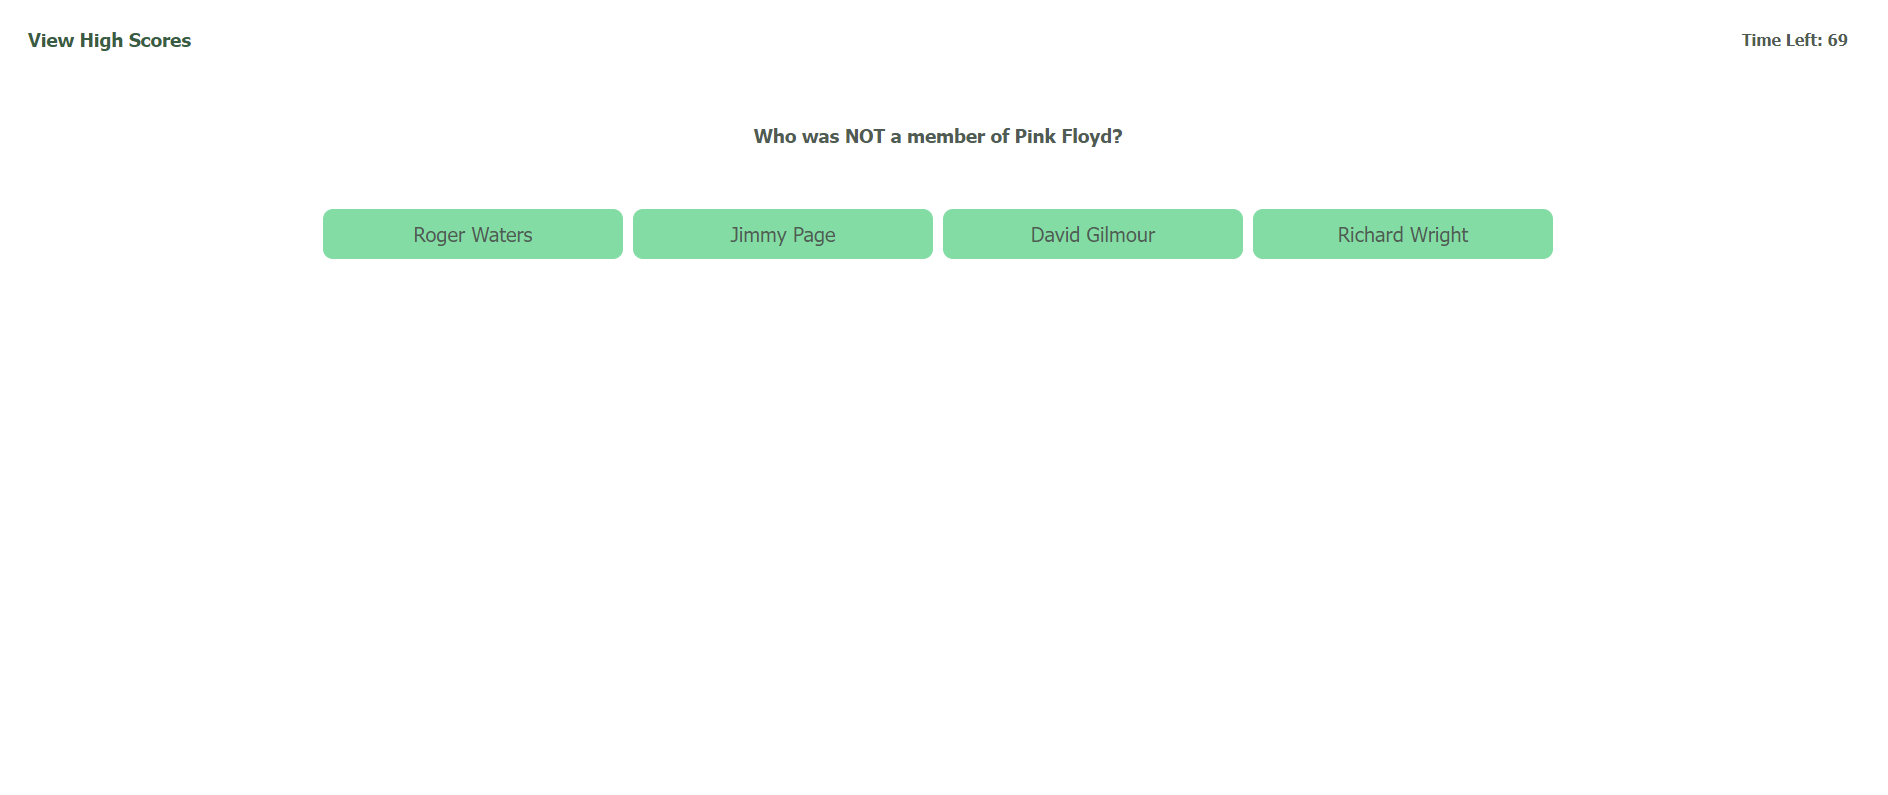
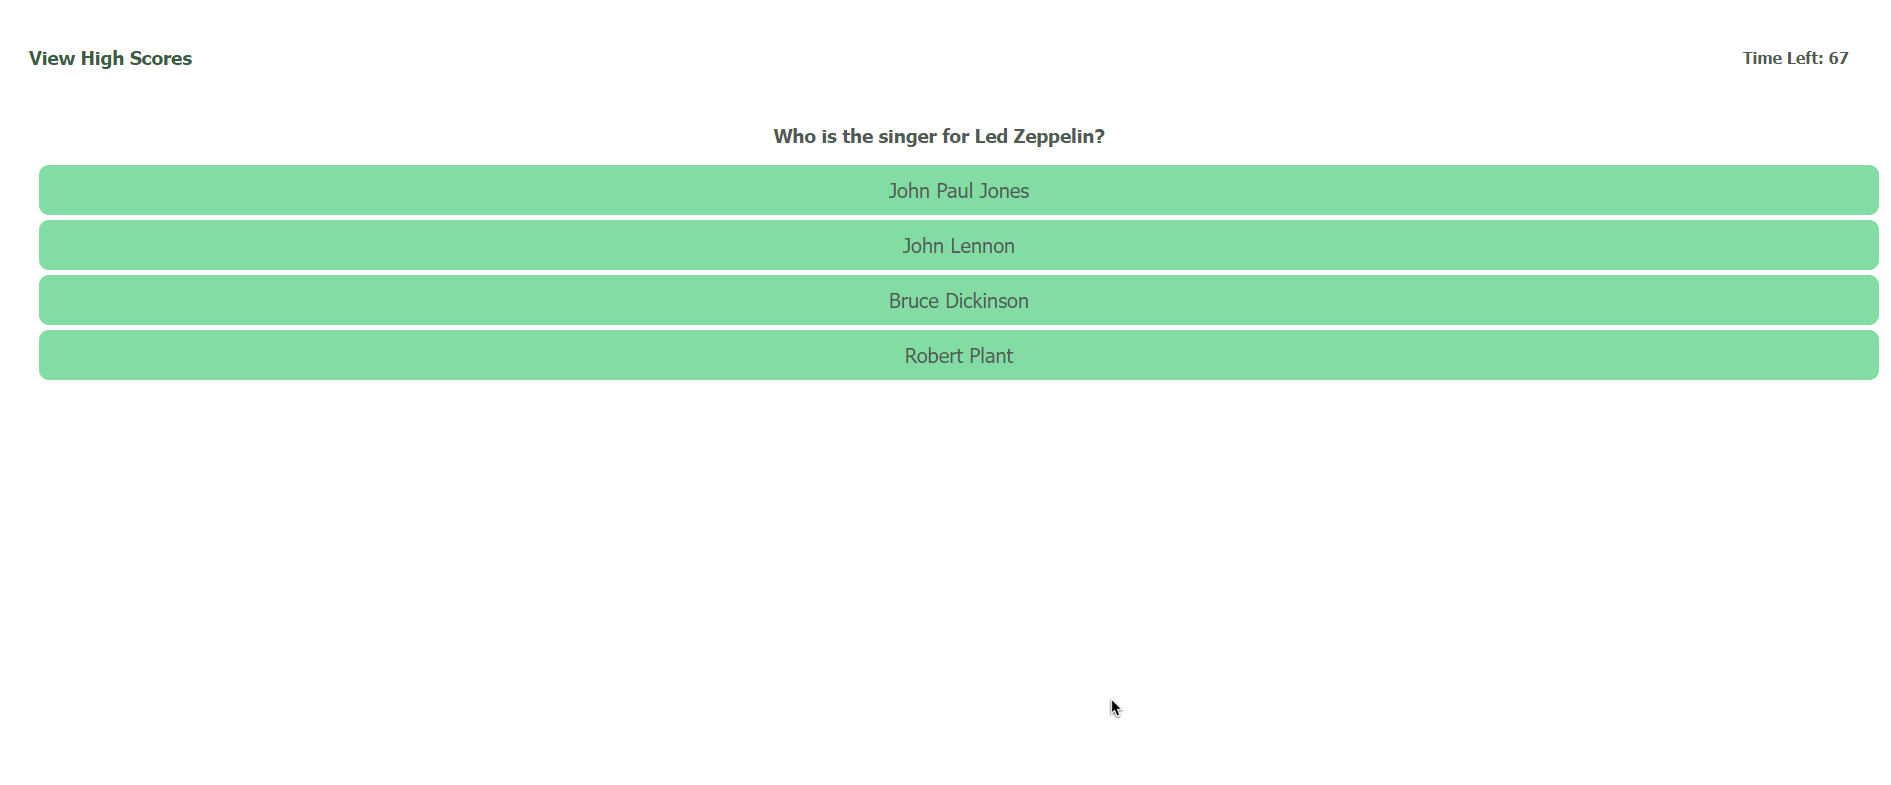
finalizing css

diff --git a/assets/css/style.css b/assets/css/style.css
@@ -9,13 +9,11 @@
     --grey: #4D5C54;
 }
 
-/* body {
+body {
     color: var(--grey);
     text-align: center;
     margin: 15px;
     padding: 0;
-    display: flex;
-    flex-direction: column;
     font-family: Geneva, Tahoma, sans-serif;
 }
 
@@ -37,7 +35,7 @@ body p {
     text-decoration: none;
     font-size: 20px;
     border: none;
-    width: 150px;
+
 }
 
 #start-btn:hover {
@@ -47,8 +45,8 @@ body p {
 
 header {
     display: flex;
-    margin: 35px;
     justify-content: space-between;
+    margin: 35px;
 }
 
 header h3 a {
@@ -60,15 +58,8 @@ header h3 a:hover {
     text-decoration: underline;
 }
 
-#welcome ul {
-    padding: 2%;
-}
-
 #welcome ul li {
-    align-items: center;
-    text-align: center;
     line-height: 2.5;
-    width: 300px;
     margin: 5px;
     list-style: none;
     cursor: pointer;
@@ -103,9 +94,8 @@ header h3 a:hover {
     text-decoration: none;
     font-size: 20px;
     border: none;
-    width: 150px;
 }
 
 #save-btn:hover {
     background-color: var(--tertiary);
-} */
+}

diff --git a/assets/js/high-scores.js b/assets/js/high-scores.js
@@ -20,8 +20,6 @@ function loadScore() {
         return false;
     };
 
-    console.log('Scores Found');
-
     savedUsers = JSON.parse(savedUsers);
 
     for (i = 0; i < savedUsers.length; i++) {
@@ -37,5 +35,3 @@ function loadScore() {
 };
 
 loadScore();
-
-console.log(userId)
